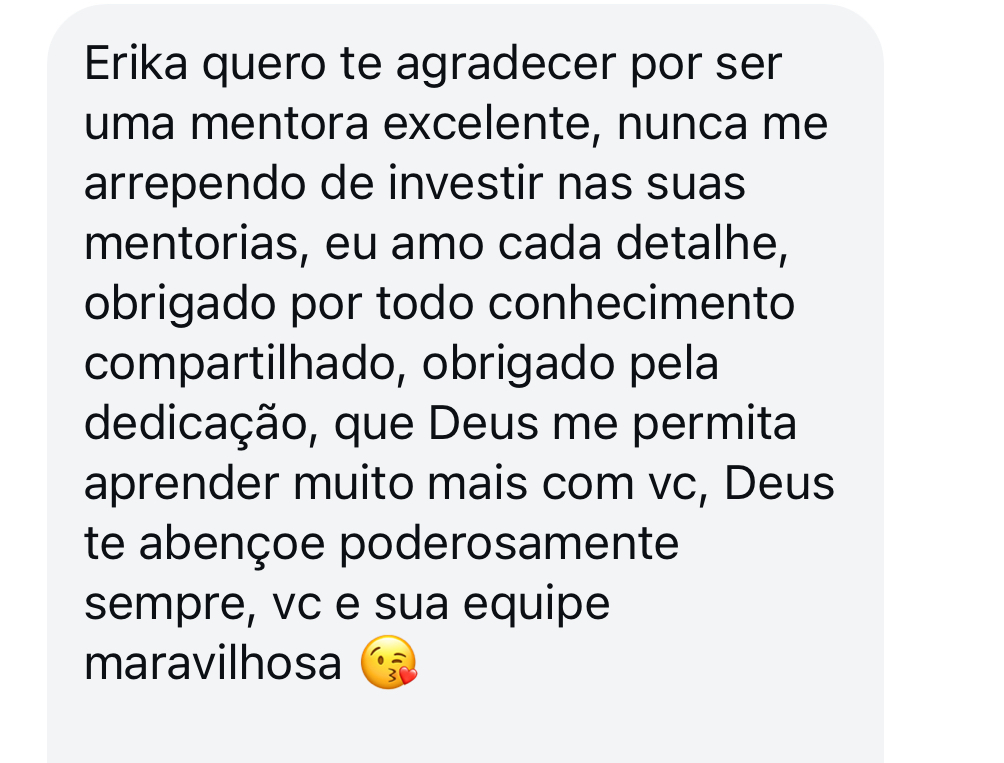
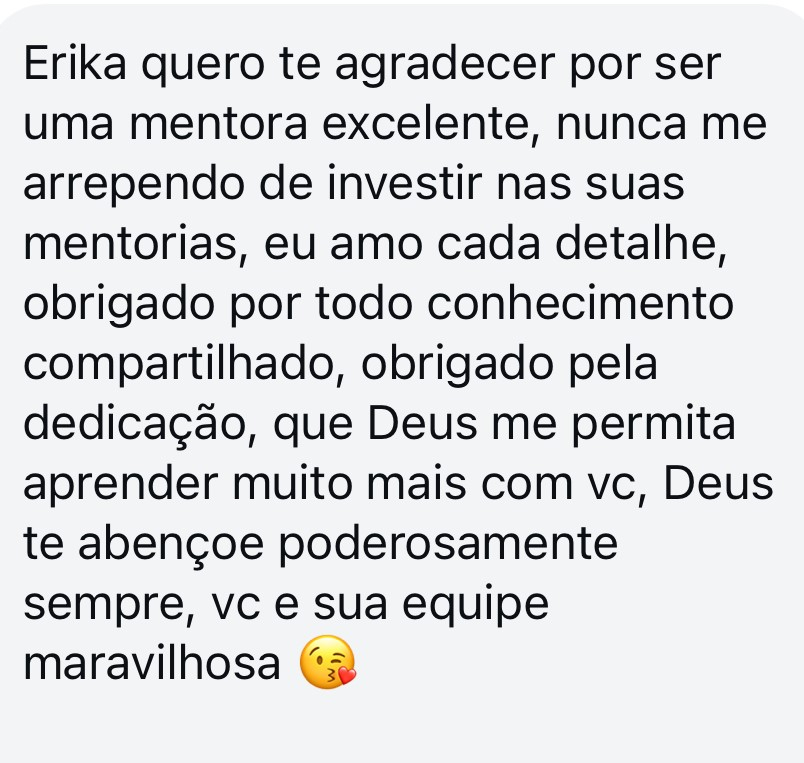
fix: corte nas imagens de feedback

Changed region(s): [[0.0311, 0.211, 0.9639, 0.6632], [0.0311, 0.6933, 0.7774, 0.9043], [0.0311, 0.0603, 0.9639, 0.1809]]

diff --git a/src/components/Feedbacks.jsx b/src/components/Feedbacks.jsx
@@ -18,7 +18,7 @@ const Feedbacks = () => {
 
   return (
     <section className="py-24 px-4 bg-navy">
-      <div className="container mx-auto max-w-5xl">
+      <div className="container mx-auto max-w-6xl">
         <div
           ref={titleRef}
           className={`transition-all duration-800 ${titleVisible ? 'opacity-100 translate-y-0' : 'opacity-0 translate-y-10'}`}
@@ -33,23 +33,39 @@ const Feedbacks = () => {
 
         <div
           ref={gridRef}
-          className="grid grid-cols-1 sm:grid-cols-2 lg:grid-cols-3 gap-6"
+          className="grid grid-cols-2 md:grid-cols-3 lg:grid-cols-4 gap-2 items-start"
         >
-          {feedbacks.map((file, index) => (
-            <div
-              key={index}
-              className={`rounded-2xl overflow-hidden border border-gold/20 hover:border-gold transition-all duration-300 hover:-translate-y-1 ${
-                gridVisible ? 'opacity-100 translate-y-0' : 'opacity-0 translate-y-10'
-              }`}
-              style={{ transitionDelay: `${index * 80}ms` }}
-            >
-              <img
-                src={`${process.env.PUBLIC_URL}/assets/img/${file}`}
-                alt={`Feedback ${index + 1}`}
-                className="w-full h-auto object-cover"
-              />
-            </div>
-          ))}
+          {feedbacks.map((file, index) => {
+            // Define tamanhos variados para criar um layout dinâmico
+            const sizes = [
+              'col-span-2 md:col-span-2', // Grande
+              'col-span-1', // Pequeno
+              'col-span-1', // Pequeno
+              'col-span-2 md:col-span-1', // Médio
+              'col-span-1', // Pequeno
+              'col-span-1', // Pequeno
+              'col-span-2 md:col-span-2', // Grande
+              'col-span-2 md:col-span-1', // Médio
+            ];
+
+            return (
+              <div
+                key={index}
+                className={`${sizes[index]} ${
+                  gridVisible ? 'opacity-100 translate-y-0' : 'opacity-0 translate-y-10'
+                }`}
+                style={{ transitionDelay: `${index * 80}ms` }}
+              >
+                <div className="rounded-xl overflow-hidden border border-gold/20 hover:border-gold transition-all duration-300 hover:-translate-y-1 w-fit">
+                  <img
+                    src={`${process.env.PUBLIC_URL}/assets/img/${file}`}
+                    alt={`Feedback ${index + 1}`}
+                    className="w-full h-auto object-contain max-h-[400px] block"
+                  />
+                </div>
+              </div>
+            );
+          })}
         </div>
       </div>
     </section>
